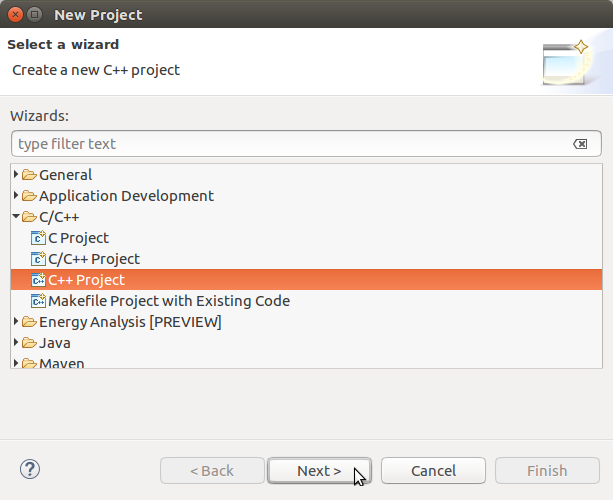
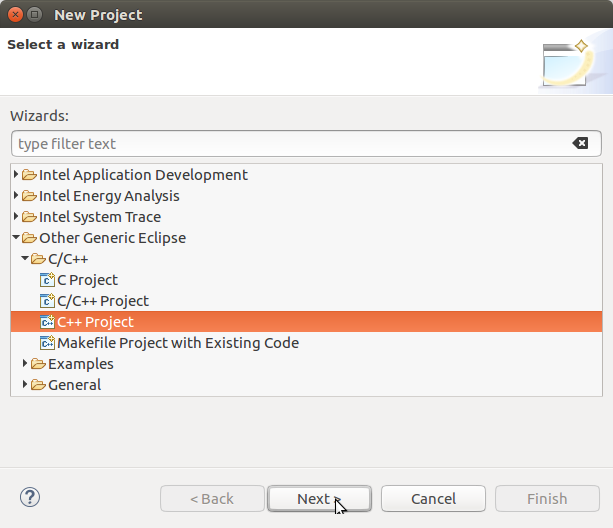
Update to ISS 2019

diff --git a/car_detection_tutorial/step_2/Readme.md b/car_detection_tutorial/step_2/Readme.md
@@ -1300,7 +1300,7 @@ The following covers how to build and run from within Intel® System Studio (ISS
    source /opt/intel/computer_vision_sdk/bin/setupvars.sh
    # assumes shell is in step_* directory
    source ../scripts/setupenv.sh
-   /opt/intel/system_studio_2018/iss_ide_eclipse-launcher.sh
+   /opt/intel/system_studio_2019/iss_ide_eclipse-launcher.sh
    ```
 
 
@@ -1328,9 +1328,7 @@ The following covers how to build and run from within Intel® System Studio (ISS
 
 ![image alt text](../doc_support/step2_image_7.png)
 
-2. Expand "C/C++", select “C++ Project”, and then click the Next button.
-
-   1. **Note**: If the "C/C++" wizard is not available, you will need to unhide it by going to Window->Preferences,”Intel System Studio”, unchecking the option “Hide unsupported wizards”, and then click the OK button.
+2. Expand "Other Generic Eclipse", expand “C/C++”, select “C++ Project”, and then click the Next button.
 
 ![image alt text](../doc_support/step2_image_8.png)
 

diff --git a/face_detection_tutorial/step_2/Readme.md b/face_detection_tutorial/step_2/Readme.md
@@ -1102,7 +1102,7 @@ The following covers how to build and run from within Intel® System Studio (ISS
    source /opt/intel/computer_vision_sdk/bin/setupvars.sh
    # assumes shell is in step_* directory
    source ../scripts/setupenv.sh
-   /opt/intel/system_studio_2018/iss_ide_eclipse-launcher.sh
+   /opt/intel/system_studio_2019/iss_ide_eclipse-launcher.sh
    ```
 
 
@@ -1130,9 +1130,7 @@ The following covers how to build and run from within Intel® System Studio (ISS
 
 ![image alt text](../doc_support/step2_image_7.png)
 
-2. Expand "C/C++", select “C++ Project”, and then click the Next button.
-
-   1. **Note**: If the "C/C++" wizard is not available, you will need to unhide it by going to Window->Preferences,”Intel System Studio”, unchecking the option “Hide unsupported wizards”, and then click the OK button.
+2. Expand "Other Generic Eclipse", expand “C/C++”, select “C++ Project”, and then click the Next button.
 
 ![image alt text](../doc_support/step2_image_8.png)
 

diff --git a/car_detection_tutorial/step_3/Readme.md b/car_detection_tutorial/step_3/Readme.md
@@ -643,7 +643,7 @@ The following covers how to build and run from within Intel® System Studio (ISS
    source /opt/intel/computer_vision_sdk/bin/setupvars.sh
    # assumes shell is in step_* directory
    source ../scripts/setupenv.sh
-   /opt/intel/system_studio_2018/iss_ide_eclipse-launcher.sh
+   /opt/intel/system_studio_2019/iss_ide_eclipse-launcher.sh
    ```
 
 
@@ -671,9 +671,7 @@ The following covers how to build and run from within Intel® System Studio (ISS
 
 ![image alt text](../doc_support/step3_image_7.png)
 
-2. Expand "C/C++", select “C++ Project”, and then click the Next button.
-
-   1. **Note**: If the "C/C++" wizard is not available, you will need to unhide it by going to Window->Preferences,”Intel System Studio”, unchecking the option “Hide unsupported wizards”, and then click the OK button.
+2. Expand "Other Generic Eclipse", expand “C/C++”, select “C++ Project”, and then click the Next button.
 
 ![image alt text](../doc_support/step3_image_8.png)
 

diff --git a/car_detection_tutorial/step_4/Readme.md b/car_detection_tutorial/step_4/Readme.md
@@ -918,7 +918,7 @@ The following covers how to build and run from within Intel® System Studio (ISS
    source /opt/intel/computer_vision_sdk/bin/setupvars.sh
    # assumes shell is in step_* directory
    source ../scripts/setupenv.sh
-   /opt/intel/system_studio_2018/iss_ide_eclipse-launcher.sh
+   /opt/intel/system_studio_2019/iss_ide_eclipse-launcher.sh
    ```
 
 
@@ -946,9 +946,7 @@ The following covers how to build and run from within Intel® System Studio (ISS
 
 ![image alt text](../doc_support/step4_image_6.png)
 
-2. Expand "C/C++", select “C++ Project”, and then click the Next button.
-
-   1. **Note**: If the "C/C++" wizard is not available, you will need to unhide it by going to Window->Preferences,”Intel System Studio”, unchecking the option “Hide unsupported wizards”, and then click the OK button.
+2. Expand "Other Generic Eclipse", expand “C/C++”, select “C++ Project”, and then click the Next button.
 
 ![image alt text](../doc_support/step4_image_7.png)
 

diff --git a/face_detection_tutorial/step_3/Readme.md b/face_detection_tutorial/step_3/Readme.md
@@ -575,7 +575,7 @@ The following covers how to build and run from within Intel® System Studio (ISS
    source /opt/intel/computer_vision_sdk/bin/setupvars.sh
    # assumes shell is in step_* directory
    source ../scripts/setupenv.sh
-   /opt/intel/system_studio_2018/iss_ide_eclipse-launcher.sh
+   /opt/intel/system_studio_2019/iss_ide_eclipse-launcher.sh
    ```
 
 
@@ -603,9 +603,7 @@ The following covers how to build and run from within Intel® System Studio (ISS
 
 ![image alt text](../doc_support/step3_image_7.png)
 
-2. Expand "C/C++", select “C++ Project”, and then click the Next button.
-
-   1. **Note**: If the "C/C++" wizard is not available, you will need to unhide it by going to Window->Preferences,”Intel System Studio”, unchecking the option “Hide unsupported wizards”, and then click the OK button.
+2. Expand "Other Generic Eclipse", expand “C/C++”, select “C++ Project”, and then click the Next button.
 
 ![image alt text](../doc_support/step3_image_8.png)
 

diff --git a/face_detection_tutorial/step_4/Readme.md b/face_detection_tutorial/step_4/Readme.md
@@ -561,7 +561,7 @@ The following covers how to build and run from within Intel® System Studio (ISS
    source /opt/intel/computer_vision_sdk/bin/setupvars.sh
    # assumes shell is in step_* directory
    source ../scripts/setupenv.sh
-   /opt/intel/system_studio_2018/iss_ide_eclipse-launcher.sh
+   /opt/intel/system_studio_2019/iss_ide_eclipse-launcher.sh
    ```
 
 
@@ -589,9 +589,7 @@ The following covers how to build and run from within Intel® System Studio (ISS
 
 ![image alt text](../doc_support/step4_image_7.png)
 
-2. Expand "C/C++", select “C++ Project”, and then click the Next button.
-
-   1. **Note**: If the "C/C++" wizard is not available, you will need to unhide it by going to Window->Preferences,”Intel System Studio”, unchecking the option “Hide unsupported wizards”, and then click the OK button.
+2. Expand "Other Generic Eclipse", expand “C/C++”, select “C++ Project”, and then click the Next button.
 
 ![image alt text](../doc_support/step4_image_8.png)
 

diff --git a/car_detection_tutorial/step_1/Readme.md b/car_detection_tutorial/step_1/Readme.md
@@ -329,7 +329,7 @@ The following covers how to build and run from within Intel® System Studio (ISS
 
    ```bash
    source /opt/intel/computer_vision_sdk/bin/setupvars.sh
-   /opt/intel/system_studio_2018/iss_ide_eclipse-launcher.sh
+   /opt/intel/system_studio_2019/iss_ide_eclipse-launcher.sh
    ```
 
 
@@ -357,9 +357,7 @@ The following covers how to build and run from within Intel® System Studio (ISS
 
 ![image alt text](../doc_support/step1_image_6.png)
 
-2. Expand "C/C++", select “C++ Project”, and then click the Next button.
-
-   1. **Note**: If the "C/C++" wizard is not available, you will need to unhide it by going to Window->Preferences,”Intel System Studio”, unchecking the option “Hide unsupported wizards”, and then click the OK button.
+2. Expand "Other Generic Eclipse", expand “C/C++”, select “C++ Project”, and then click the Next button.
 
 ![image alt text](../doc_support/step1_image_7.png)
 

diff --git a/face_detection_tutorial/step_1/Readme.md b/face_detection_tutorial/step_1/Readme.md
@@ -331,7 +331,7 @@ The following covers how to build and run from within Intel® System Studio (ISS
 
    ```bash
    source /opt/intel/computer_vision_sdk/bin/setupvars.sh
-   /opt/intel/system_studio_2018/iss_ide_eclipse-launcher.sh
+   /opt/intel/system_studio_2019/iss_ide_eclipse-launcher.sh
    ```
 
 
@@ -359,9 +359,7 @@ The following covers how to build and run from within Intel® System Studio (ISS
 
 ![image alt text](../doc_support/step1_image_6.png)
 
-2. Expand "C/C++", select “C++ Project”, and then click the Next button.
-
-   1. **Note**: If the "C/C++" wizard is not available, you will need to unhide it by going to Window->Preferences,”Intel System Studio”, unchecking the option “Hide unsupported wizards”, and then click the OK button.
+2. Expand "Other Generic Eclipse", expand “C/C++”, select “C++ Project”, and then click the Next button.
 
 ![image alt text](../doc_support/step1_image_7.png)
 
